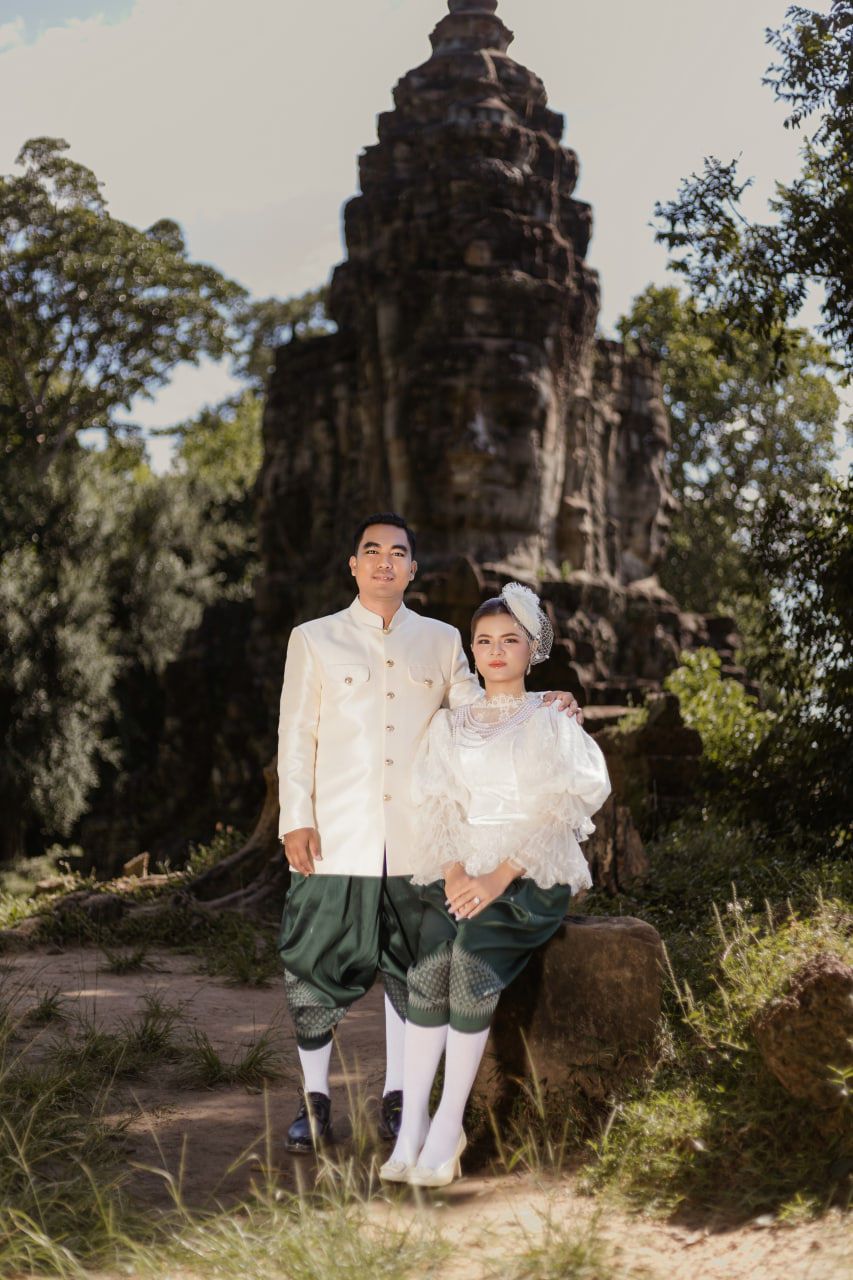
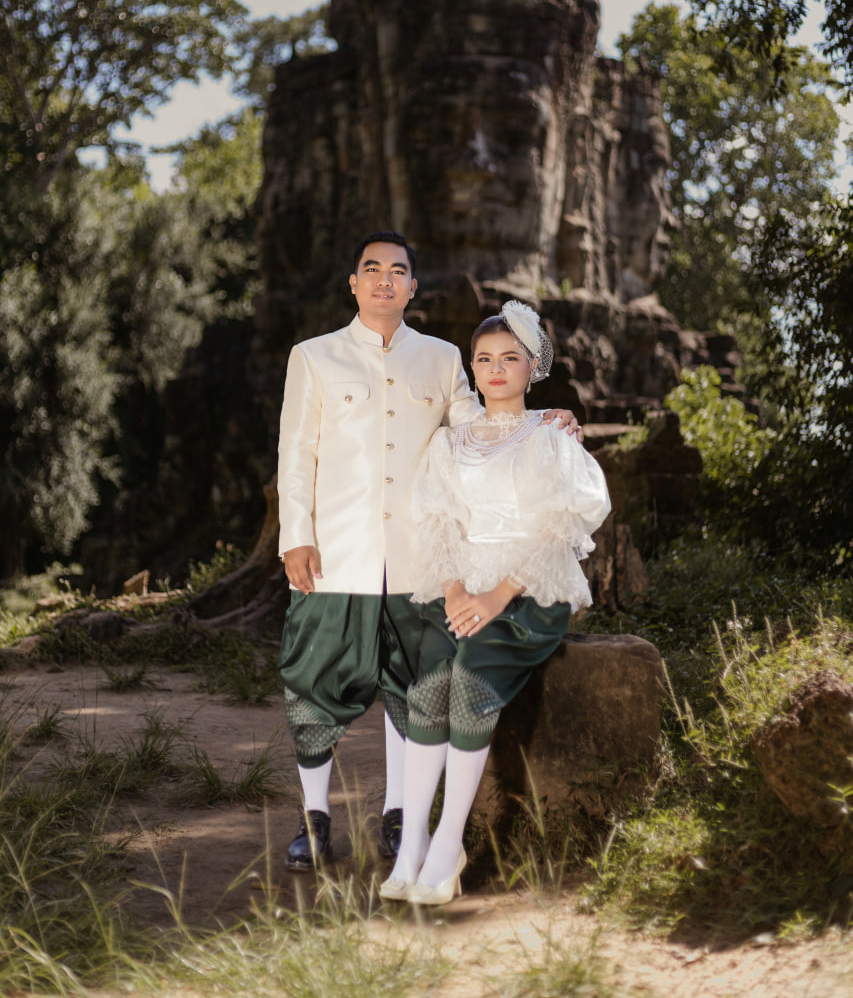
Update project code

diff --git a/index.html b/index.html
@@ -819,22 +819,22 @@
         ================================= */
         /* PAGE 1 LOGO — true 7-tone silver / chrome recolor */
         .page1-logo {
-            position: relative;
-            width: min(230px, 62vw);
-            height: min(150px, 30vw);
-            min-height: 82px;
-            display: block;
-            margin: 0 auto 1rem;
-            background: linear-gradient(
-                180deg,
-                #ffffff 0%,
-                #d9d9d9 12%,
-                #8f8f8f 27%,
-                #f7f7f7 42%,
-                #b8b8b8 57%,
-                #666666 73%,
-                #f2f2f2 88%,
-                #ffffff 100%
+    position: relative;
+    width: min(230px, 62vw);
+    height: min(150px, 30vw);
+    min-height: 82px;
+    display: block;
+    margin: 3rem auto 1rem; /* ប្តូរពី 0 ទៅ 3rem (ឬ 50px) ដើម្បីទម្លាក់ចុះក្រោម */
+    background: linear-gradient(
+        180deg,
+        #ffffff 0%,
+        #d9d9d9 12%,
+        #8f8f8f 27%,
+        #f7f7f7 42%,
+        #b8b8b8 57%,
+        #666666 73%,
+        #f2f2f2 88%,
+        #ffffff 100%
             );
             -webkit-mask-image: url('backgrund/logo.png');
             mask-image: url('backgrund/logo.png');
